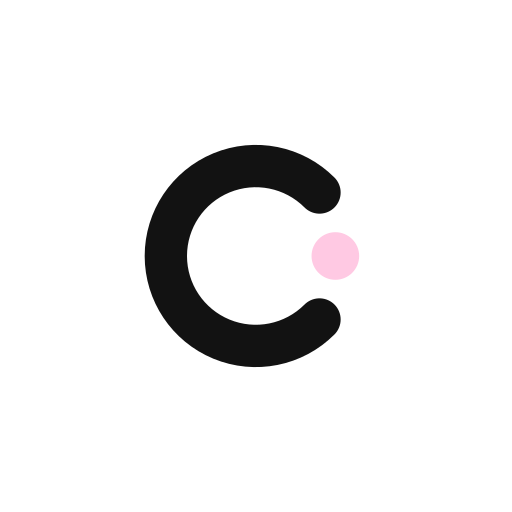
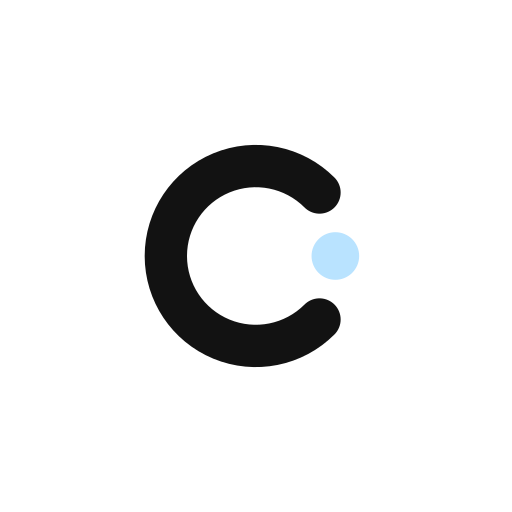
feat: blue instead of pink (#94)
* feat: replace pink with blue across the app and coach website

Token values only (names kept): pink -> #B9E3FF, drop -> #E3F3FF,
magenta -> #2F6FE0, magentaDeep -> #1F4FB0. Logo dot and favicon follow.

* feat: blue dot on the app icon, splash and logos

---------

Changed region(s): [[0.5938, 0.4375, 0.7188, 0.5625]]

diff --git a/packages/design-tokens/src/colors.ts b/packages/design-tokens/src/colors.ts
@@ -25,11 +25,13 @@ export const colors: { light: Record<ColorToken, string> } = {
     ink: '#121212',
     inkMuted: 'rgba(18, 18, 18, 0.6)',
     lime: '#C8F169',
-    pink: '#FFC9E3',
+    // 2026-11-09: the PO swapped pink for blue. Token names kept so nothing else changes:
+    // pink = light blue, drop = very light blue, magenta = strong blue, magentaDeep = deep blue.
+    pink: '#B9E3FF',
     blue: '#B9E3FF',
-    drop: '#FFE3F0',
-    magenta: '#E0408A',
-    magentaDeep: '#B32C6C',
+    drop: '#E3F3FF',
+    magenta: '#2F6FE0',
+    magentaDeep: '#1F4FB0',
     amber: '#FFB020',
     celebrateBg: '#FFF8D9',
     tape: '#FFE48A',

diff --git a/packages/design-tokens/test/tokens.test.ts b/packages/design-tokens/test/tokens.test.ts
@@ -11,11 +11,11 @@ describe('colour tokens (design spec section 2)', () => {
       ink: '#121212',
       inkMuted: 'rgba(18, 18, 18, 0.6)',
       lime: '#C8F169',
-      pink: '#FFC9E3',
+      pink: '#B9E3FF',
       blue: '#B9E3FF',
-      drop: '#FFE3F0',
-      magenta: '#E0408A',
-      magentaDeep: '#B32C6C',
+      drop: '#E3F3FF',
+      magenta: '#2F6FE0',
+      magentaDeep: '#1F4FB0',
       amber: '#FFB020',
       celebrateBg: '#FFF8D9',
       tape: '#FFE48A',

diff --git a/apps/mobile/src/theme/typography.test.ts b/apps/mobile/src/theme/typography.test.ts
@@ -20,7 +20,7 @@ describe('textStyle', () => {
     const hand = textStyle('hand', 'phone');
     expect(hand.fontFamily).toBe('BricolageGrotesque_700Bold');
     expect(hand.fontSize).toBe(17);
-    expect(hand.color).toBe('#B32C6C');
+    expect(hand.color).toBe('#1F4FB0');
     expect(hand.transform).toBeUndefined();
   });
 

diff --git a/scripts/generate-logo.ts b/scripts/generate-logo.ts
@@ -9,7 +9,7 @@ import sharp from 'sharp';
 
 const LIME = '#C8F169';
 const INK = '#121212';
-const PINK = '#FFC9E3';
+const PINK = '#B9E3FF'; // the dot: blue since 2026-11-09 (name kept)
 
 const root = join(dirname(fileURLToPath(import.meta.url)), '..');
 

diff --git a/docs/superpowers/specs/2026-11-03-design-system-design.md b/docs/superpowers/specs/2026-11-03-design-system-design.md
@@ -37,11 +37,11 @@
 | `ink` | `#121212` | Text, primary buttons, icons |
 | `ink-muted` | `#121212` @ 60% | Secondary text |
 | `lime` | `#C8F169` | Completed sets, positive stats, primary-button base shadow |
-| `pink` | `#FFC9E3` | PRs, celebration, unread counts |
+| `pink` | `#B9E3FF` (light blue since 2026-11-09) | PRs, celebration, unread counts |
 | `blue` | `#B9E3FF` | Last-workout / info tiles |
-| `drop` | `#FFE3F0` | Drop-set rows |
-| `magenta` | `#E0408A` | Handwritten notes, Finish button, urgent dots |
-| `magenta-deep` | `#B32C6C` | Finish button base shadow |
+| `drop` | `#E3F3FF` (very light blue) | Drop-set rows |
+| `magenta` | `#2F6FE0` (strong blue) | Handwritten notes, Finish button, urgent dots |
+| `magenta-deep` | `#1F4FB0` (deep blue) | Finish button base shadow |
 | `amber` | `#FFB020` | Warnings (e.g. "program ends Fri") |
 | `celebrate-bg` | `#FFF8D9` | Badge reveal background |
 | `tape` | `#FFE48A` | Sticker-book tape strip |
